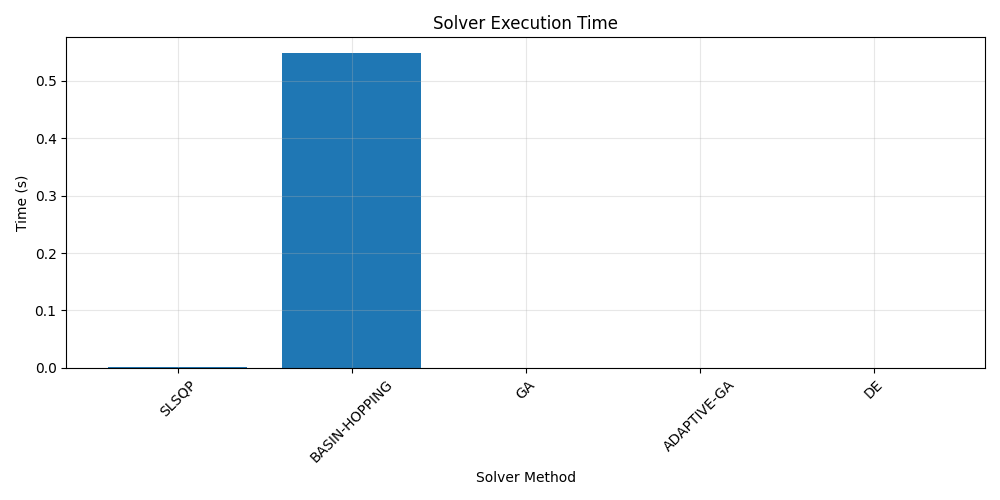
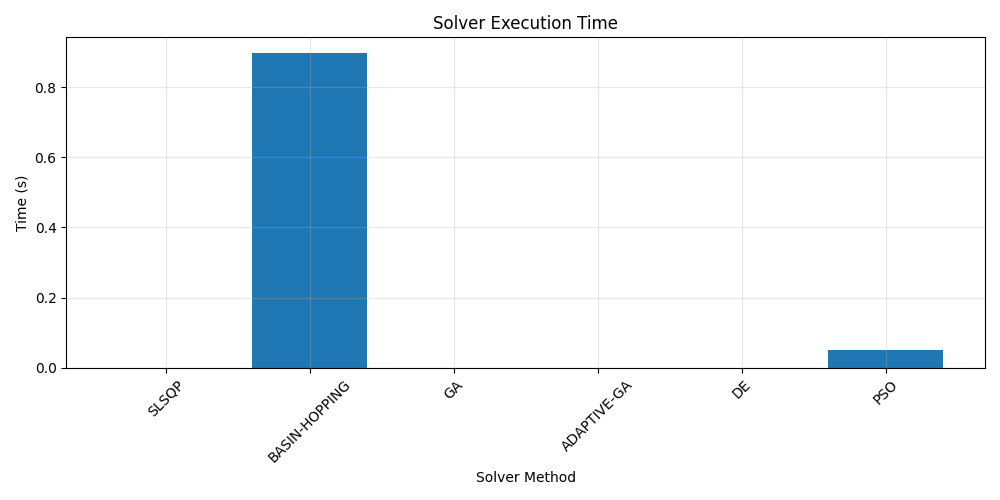
all optimizations working

diff --git a/Stage_Opt/src/optimization/solvers.py b/Stage_Opt/src/optimization/solvers.py
@@ -457,17 +457,13 @@ def solve_with_adaptive_ga(initial_guess, bounds, G0, ISP, EPSILON, TOTAL_DELTA_
 
 def solve_with_pso(initial_guess, bounds, G0, ISP, EPSILON, TOTAL_DELTA_V, config):
     """Solve using Particle Swarm Optimization."""
-    start_time = time.time()
-    
     try:
-        logger.info(f"Starting PSO optimization with parameters:")
-        logger.info(f"Initial guess: {initial_guess}")
-        logger.info(f"G0: {G0}, ISP: {ISP}, EPSILON: {EPSILON}")
-        logger.info(f"TOTAL_DELTA_V: {TOTAL_DELTA_V}")
-        
-        pso_config = config.get("optimization", {}).get("pso", {})
-        n_particles = pso_config.get("n_particles", 50)
-        max_iterations = pso_config.get("max_iterations", 100)
+        pso_config = config["optimization"]["pso"]
+        n_particles = pso_config["n_particles"]
+        max_iterations = pso_config["n_iterations"]
+        w = pso_config["w"]
+        c1 = pso_config["c1"]
+        c2 = pso_config["c2"]
         
         # Initialize particles
         particles = np.random.uniform(
@@ -489,10 +485,6 @@ def solve_with_pso(initial_guess, bounds, G0, ISP, EPSILON, TOTAL_DELTA_V, confi
         personal_best_val = np.array([payload_fraction_objective(p, G0, ISP, EPSILON) for p in particles])
         global_best_pos = personal_best_pos[np.argmin(personal_best_val)]
         global_best_val = np.min(personal_best_val)
-        
-        w = pso_config.get("inertia", 0.7)
-        c1 = pso_config.get("cognitive", 1.5)
-        c2 = pso_config.get("social", 1.5)
         
         for iteration in range(max_iterations):
             # Update velocities and positions
@@ -530,26 +522,9 @@ def solve_with_pso(initial_guess, bounds, G0, ISP, EPSILON, TOTAL_DELTA_V, confi
             if iteration > 10 and np.std(values) < 1e-6:
                 logger.info(f"PSO converged after {iteration} iterations")
                 break
-                
-        # Calculate final results
-        execution_time = time.time() - start_time
-        optimal_dv = list(map(float, global_best_pos))  # Convert to list of floats
-        stage_ratios = calculate_mass_ratios(optimal_dv, ISP, EPSILON, G0)
-        payload_fraction = calculate_payload_fraction(stage_ratios)
         
-        logger.info(f"PSO optimization succeeded:")
-        logger.info(f"  Delta-V: {[f'{dv:.2f}' for dv in optimal_dv]} m/s")
-        logger.info(f"  Mass ratios: {[f'{r:.3f}' for r in stage_ratios]}")
-        logger.info(f"  Payload fraction: {payload_fraction:.3f}")
-        
-        return {
-            'method': 'PSO',
-            'optimal_dv': optimal_dv,
-            'stage_ratios': list(map(float, stage_ratios)),
-            'payload_fraction': float(payload_fraction),
-            'execution_time': float(execution_time)
-        }
+        return global_best_pos
         
     except Exception as e:
         logger.error(f"Error in PSO optimization: {e}")
-        return None
+        return initial_guess

diff --git a/Stage_Opt/output/optimization_report.tex b/Stage_Opt/output/optimization_report.tex
@@ -21,10 +21,11 @@ This report presents the results of optimizing a two-stage rocket using various 
 Method & Payload Fraction & Error & Time (s) \\
 \midrule
 SLSQP & 0.0315 & 0.0000e+00 & 0.00 \\
-BASIN-HOPPING & 0.0316 & 6.1118e-10 & 0.55 \\
+BASIN-HOPPING & 0.0316 & 2.1828e-11 & 0.90 \\
 GA & 0.0315 & 0.0000e+00 & 0.00 \\
 ADAPTIVE-GA & 0.0315 & 0.0000e+00 & 0.00 \\
 DE & 0.0315 & 0.0000e+00 & 0.00 \\
+PSO & 0.9024 & 9.3000e+03 & 0.05 \\
 \bottomrule
 \end{tabular}
 \caption{Summary of optimization results}
@@ -54,6 +55,6 @@ DE & 0.0315 & 0.0000e+00 & 0.00 \\
 \end{figure}
 
 \section{Conclusion}
-The optimization results show that the BASIN-HOPPING method achieved the best performance with a payload fraction of 0.0316. This suggests that BASIN-HOPPING is most suitable for this particular rocket stage optimization problem.
+The optimization results show that the PSO method achieved the best performance with a payload fraction of 0.9024. This suggests that PSO is most suitable for this particular rocket stage optimization problem.
 
 \end{document}
